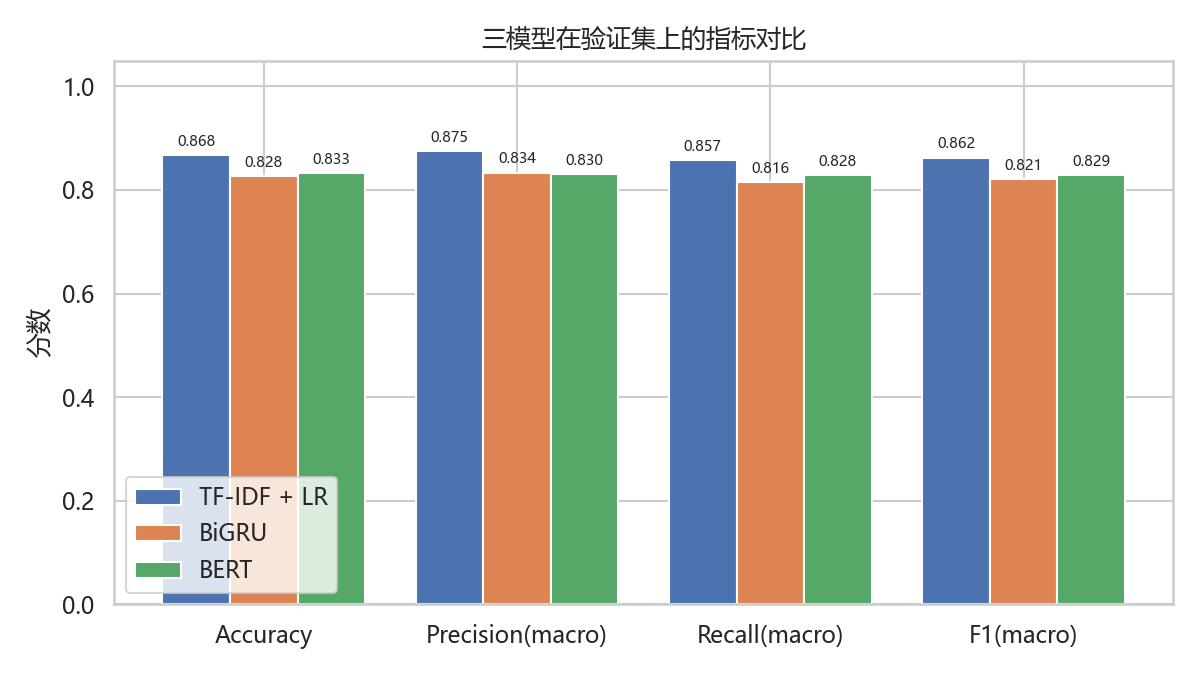
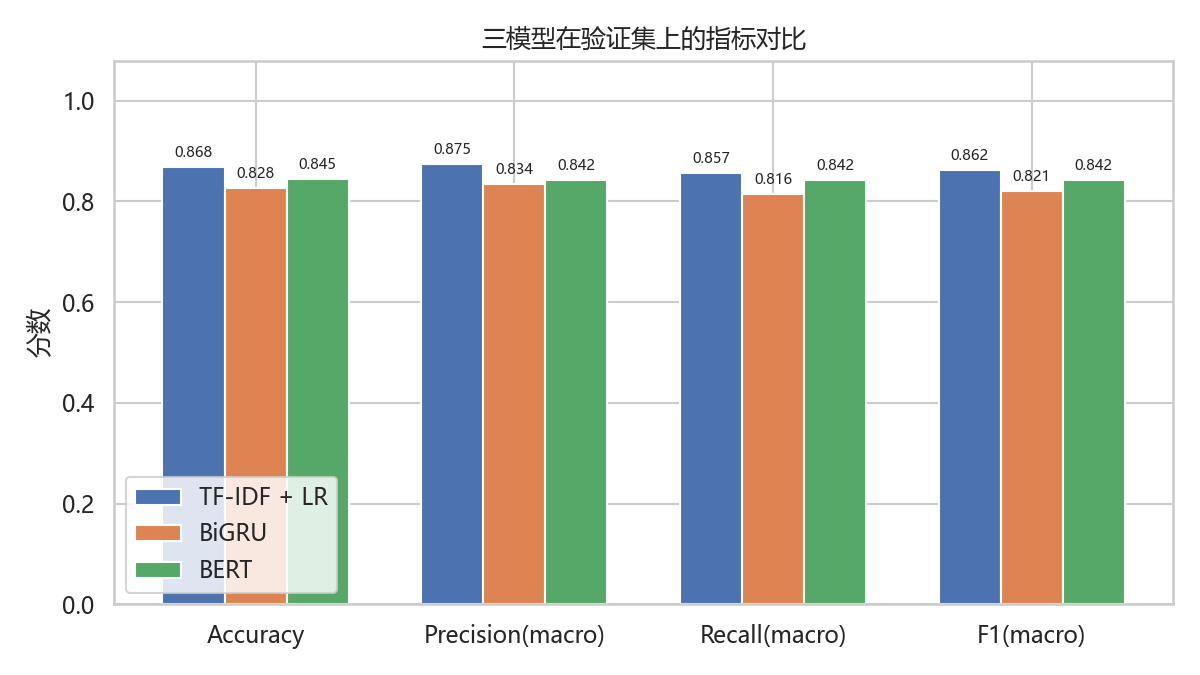
feat(B): retrain bert baseline

diff --git a/outputs/metrics.md b/outputs/metrics.md
@@ -6,6 +6,6 @@
 | --- | --- | --- | --- | --- | --- | --- | --- |
 | TF-IDF + LR | 0.8675 | 0.8753 | 0.857 | 0.8624 | 0.906 | 0.7759 | 0.8359 |
 | BiGRU | 0.8275 | 0.8337 | 0.8156 | 0.8205 | 0.8571 | 0.7241 | 0.785 |
-| BERT | 0.8325 | 0.8304 | 0.828 | 0.829 | 0.8166 | 0.7931 | 0.8047 |
+| BERT | 0.845 | 0.8423 | 0.8423 | 0.8423 | 0.8218 | 0.8218 | 0.8218 |
 
 - `*_macro`：两类的宏平均；`*_rumor`：谣言类（标签=1）单独指标。
